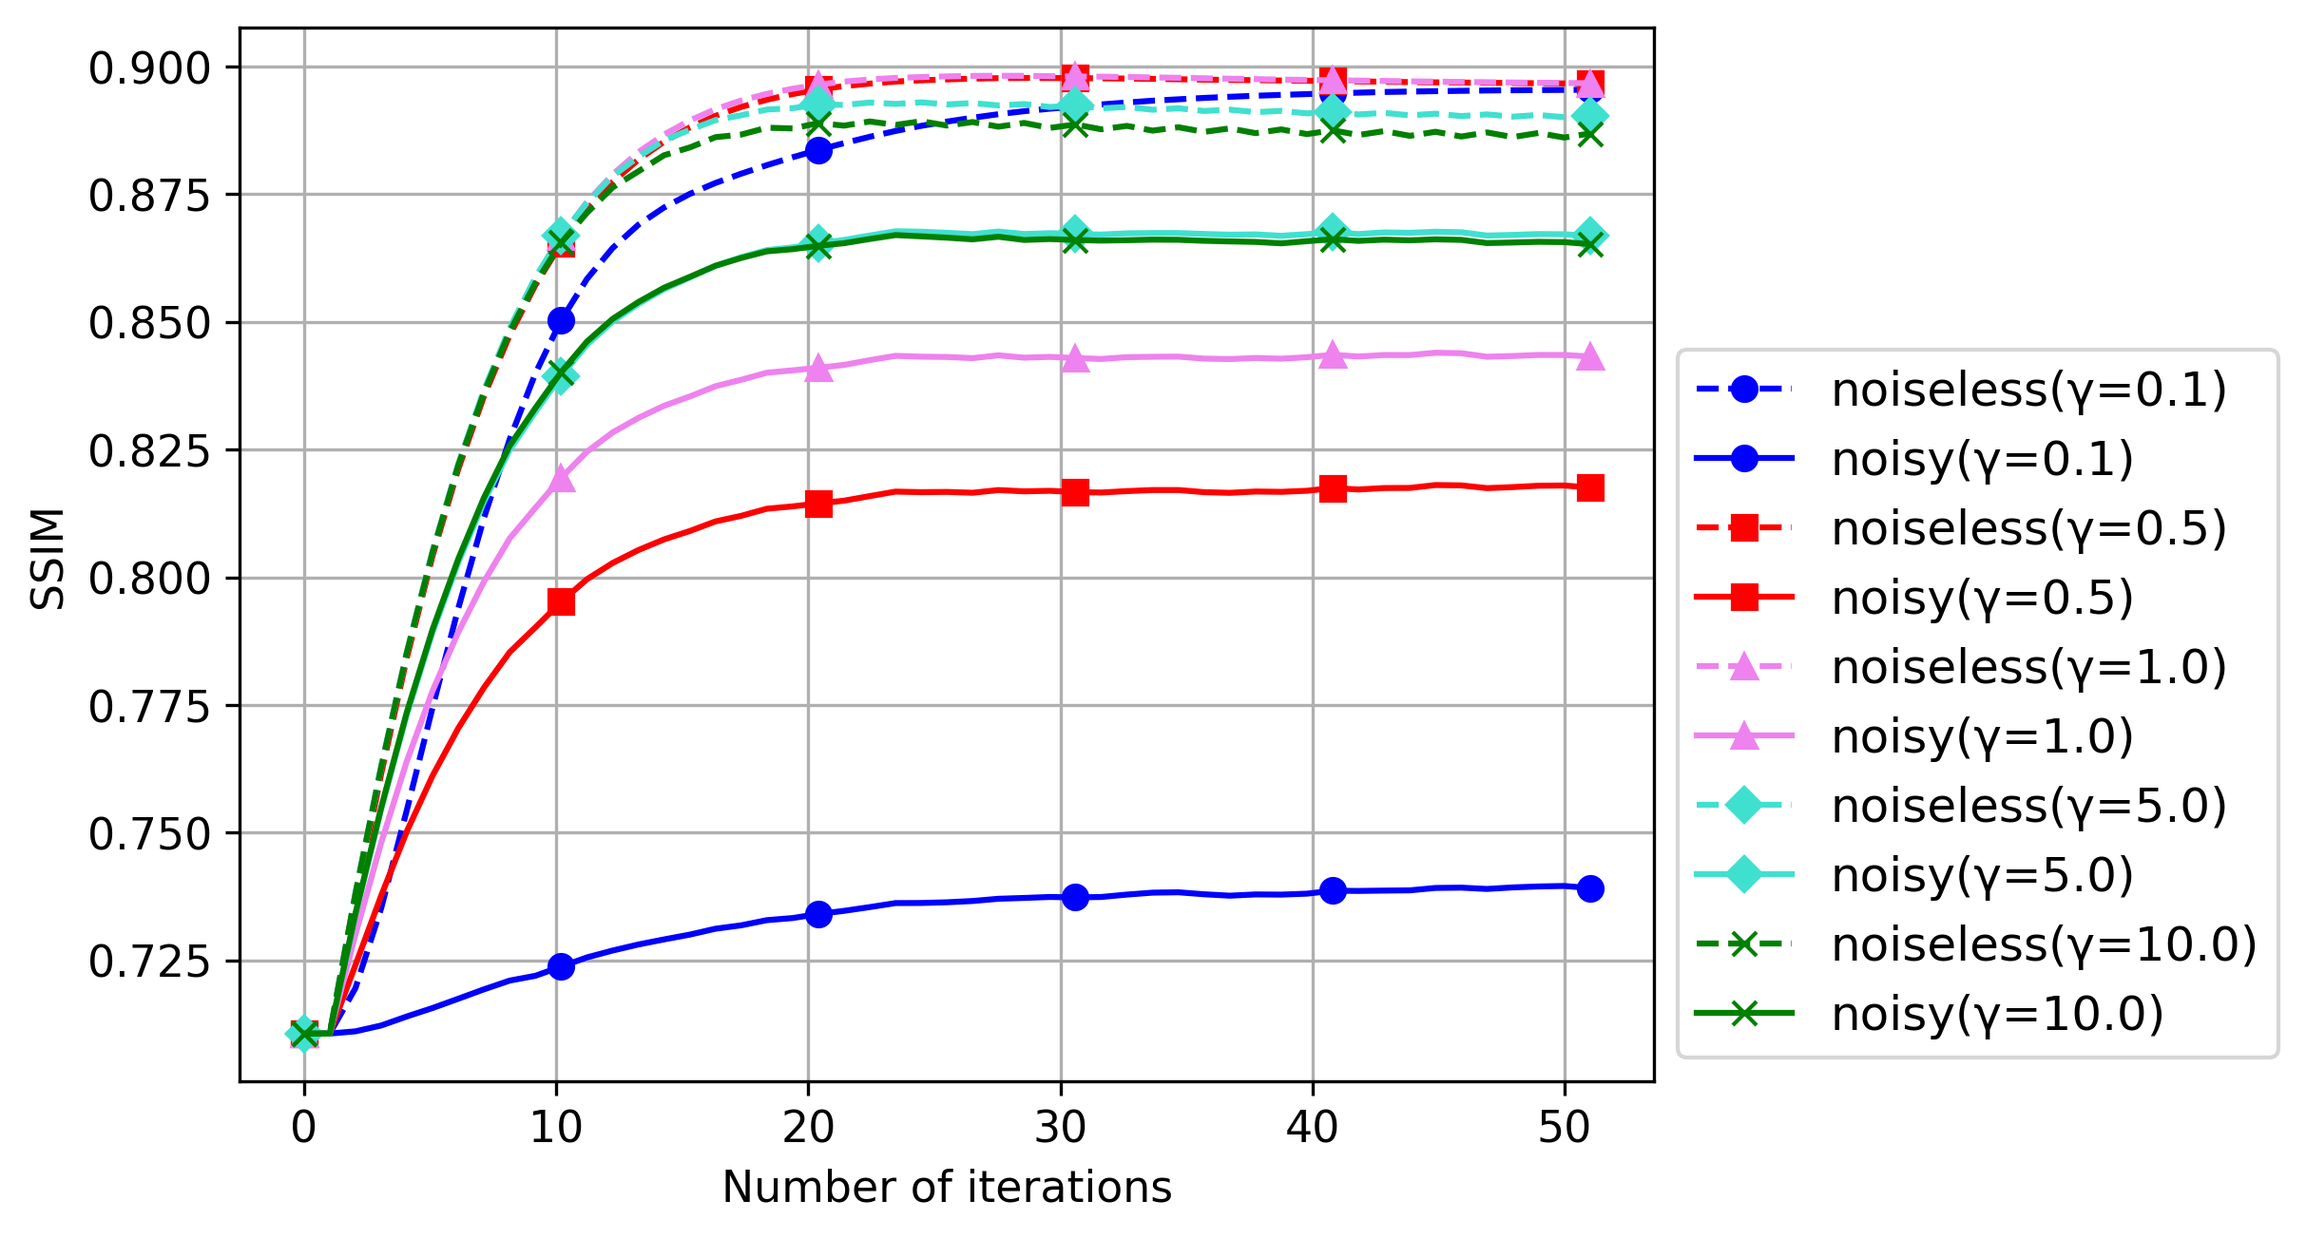
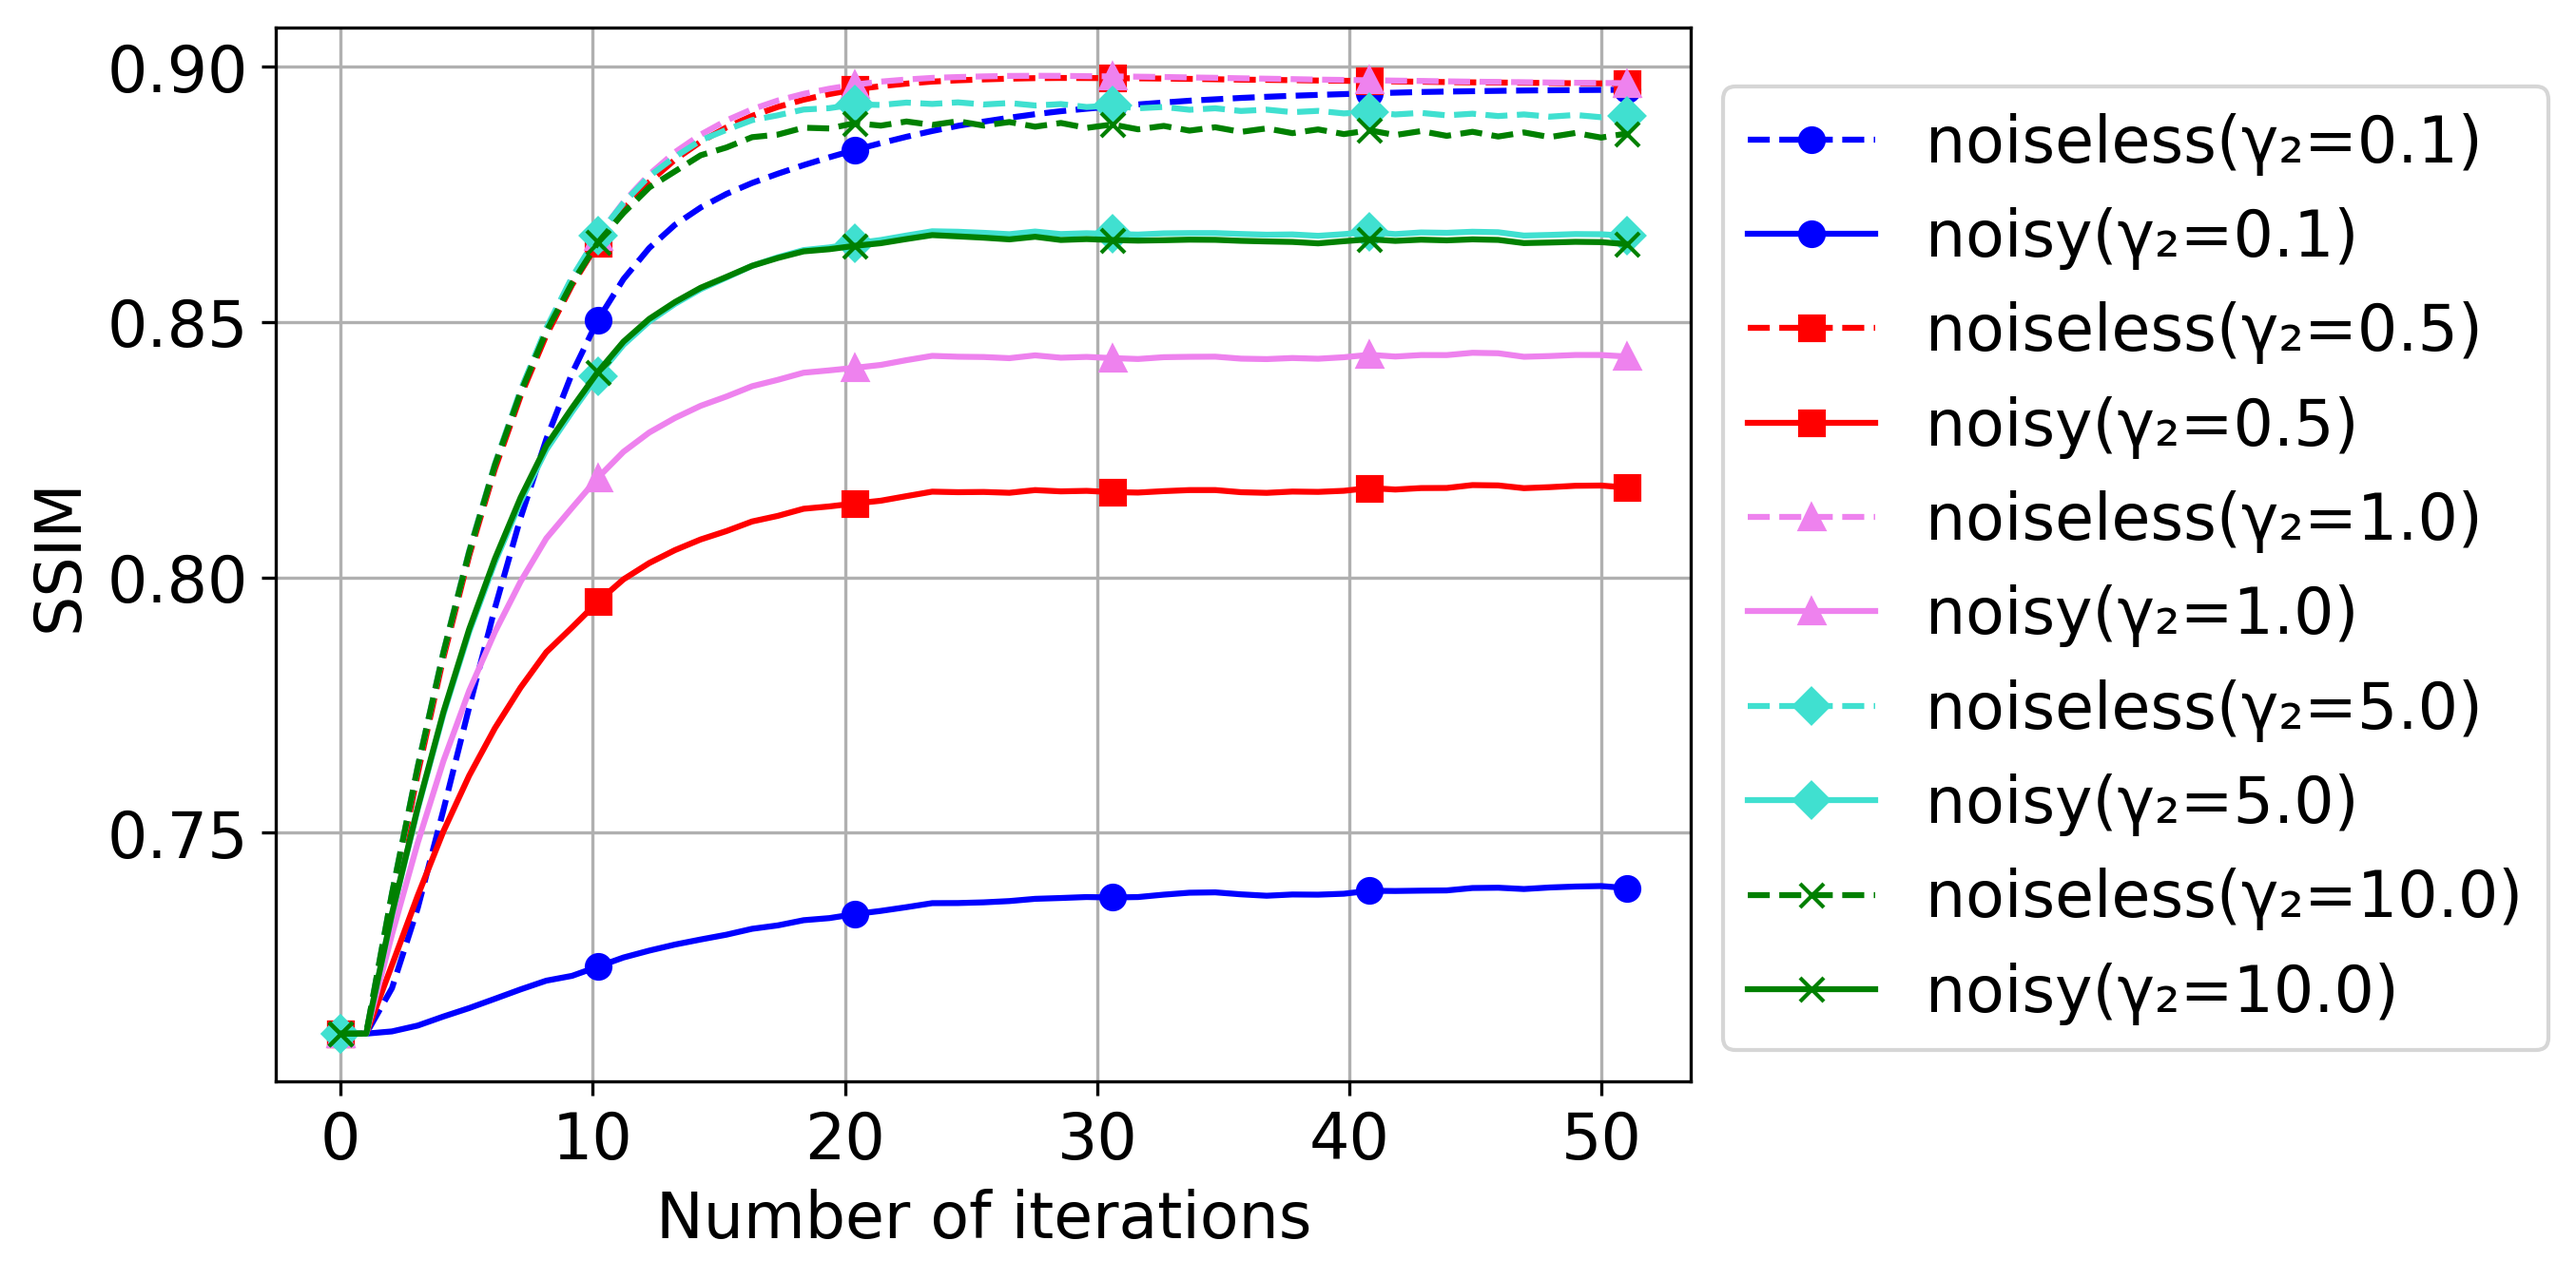
フォント変更2

diff --git a/plot-gam2.py b/plot-gam2.py
@@ -4,7 +4,7 @@ import cv2
 
 color_array=['blue','red','violet','turquoise','green']
 marker_array = ['o', 's', '^', 'D', 'x']  # 円, 四角, 上三角, ダイヤモンド, バツ
-plt.rcParams["font.size"] = 11
+plt.rcParams["font.size"] = 16
 plt.tight_layout()
 
 gam_num=5
@@ -25,15 +25,15 @@ x=np.linspace(0, EP+1, EP+1)
 
 for i in range(gam_num):
   print(i)
-  plt.plot(x, PSNR[i, :], color=color_array[i], label=f'noiseless(γ={GAM_array[i]})', linestyle='--', marker=marker_array[i], markevery=10)
-  plt.plot(x, PSNR_noise[i, :], color=color_array[i], label=f'noisy(γ={GAM_array[i]})', marker=marker_array[i], markevery=10)
+  plt.plot(x, PSNR[i, :], color=color_array[i], label=f'noiseless(γ₂={GAM_array[i]})', linestyle='--', marker=marker_array[i], markevery=10)
+  plt.plot(x, PSNR_noise[i, :], color=color_array[i], label=f'noisy(γ₂={GAM_array[i]})', marker=marker_array[i], markevery=10)
 #plt.title('ADMM_TV')
 plt.grid(which='major')
 plt.grid(which='minor')
 plt.xlabel('Number of iterations')
 plt.ylabel('PSNR')
 #plt.xticks([10,20,30,40,50],fontsize=9,color='black')
-plt.legend(loc='lower left', fontsize=11, bbox_to_anchor=(1, 0))
+plt.legend(loc='lower left', fontsize=16, bbox_to_anchor=(1, 0))
 #plt.ylim(21.5,35)
 plt.savefig('PSNR_plot.png', dpi=300, bbox_inches='tight')
 plt.show()
@@ -41,14 +41,14 @@ plt.show()
 #SSIMの推移を表示
 x=np.linspace(0, EP+1, EP+1)
 for i in range(gam_num):
-  plt.plot(x, SSIM[i, :], color=color_array[i], label=f'noiseless(γ={GAM_array[i]})',linestyle='--', marker=marker_array[i], markevery=10)
-  plt.plot(x, SSIM_noise[i, :], color=color_array[i], label=f'noisy(γ={GAM_array[i]})', marker=marker_array[i], markevery=10)
+  plt.plot(x, SSIM[i, :], color=color_array[i], label=f'noiseless(γ₂={GAM_array[i]})',linestyle='--', marker=marker_array[i], markevery=10)
+  plt.plot(x, SSIM_noise[i, :], color=color_array[i], label=f'noisy(γ₂={GAM_array[i]})', marker=marker_array[i], markevery=10)
 #plt.title('ADMM_TV')
 plt.grid(which='major')
 plt.grid(which='minor')
 plt.xlabel('Number of iterations')
 plt.ylabel('SSIM')
-plt.legend(loc='lower left', fontsize=12, bbox_to_anchor=(1, 0))
+plt.legend(loc='lower left', fontsize=16, bbox_to_anchor=(1, 0))
 #plt.ylim(0.35,0.95)
 plt.savefig('SSIM_plot.png', dpi=300, bbox_inches='tight')
 plt.show()
